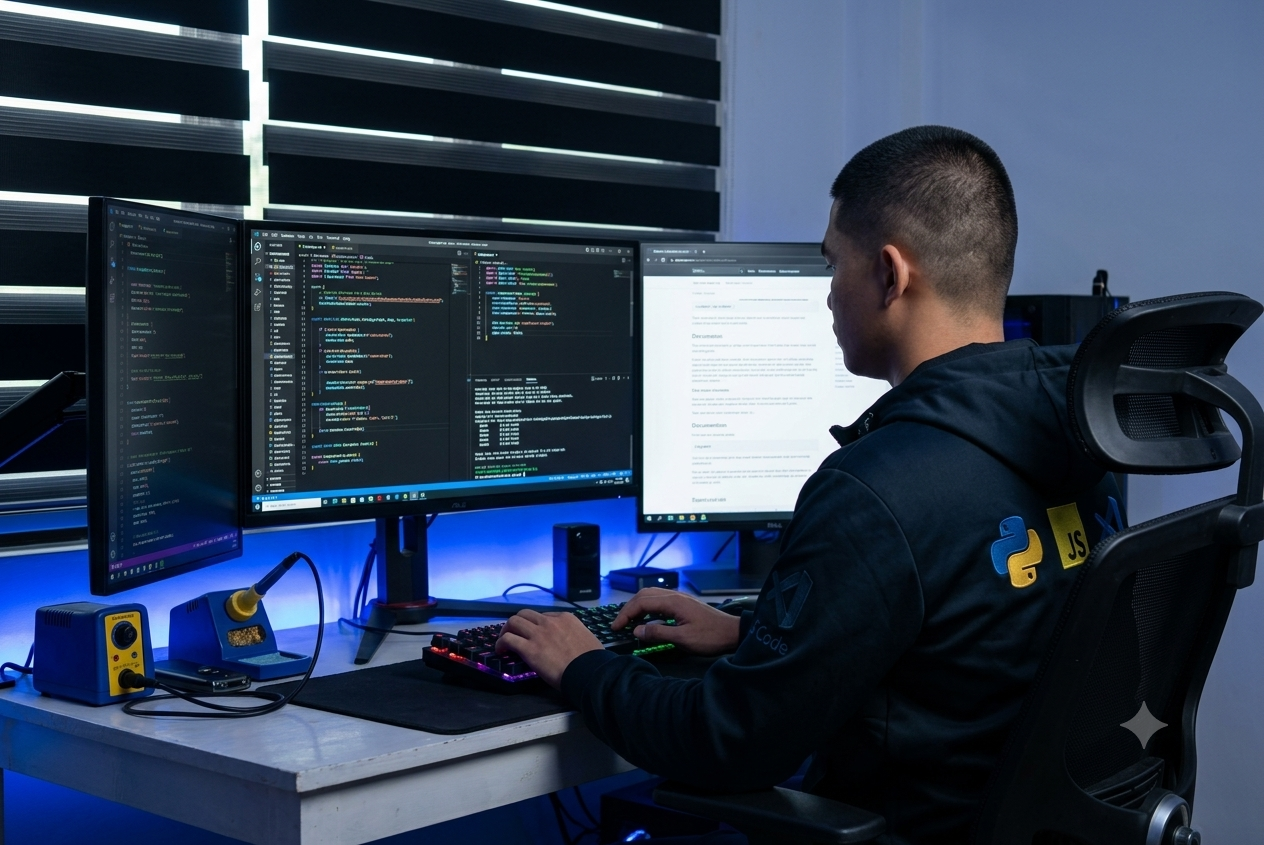
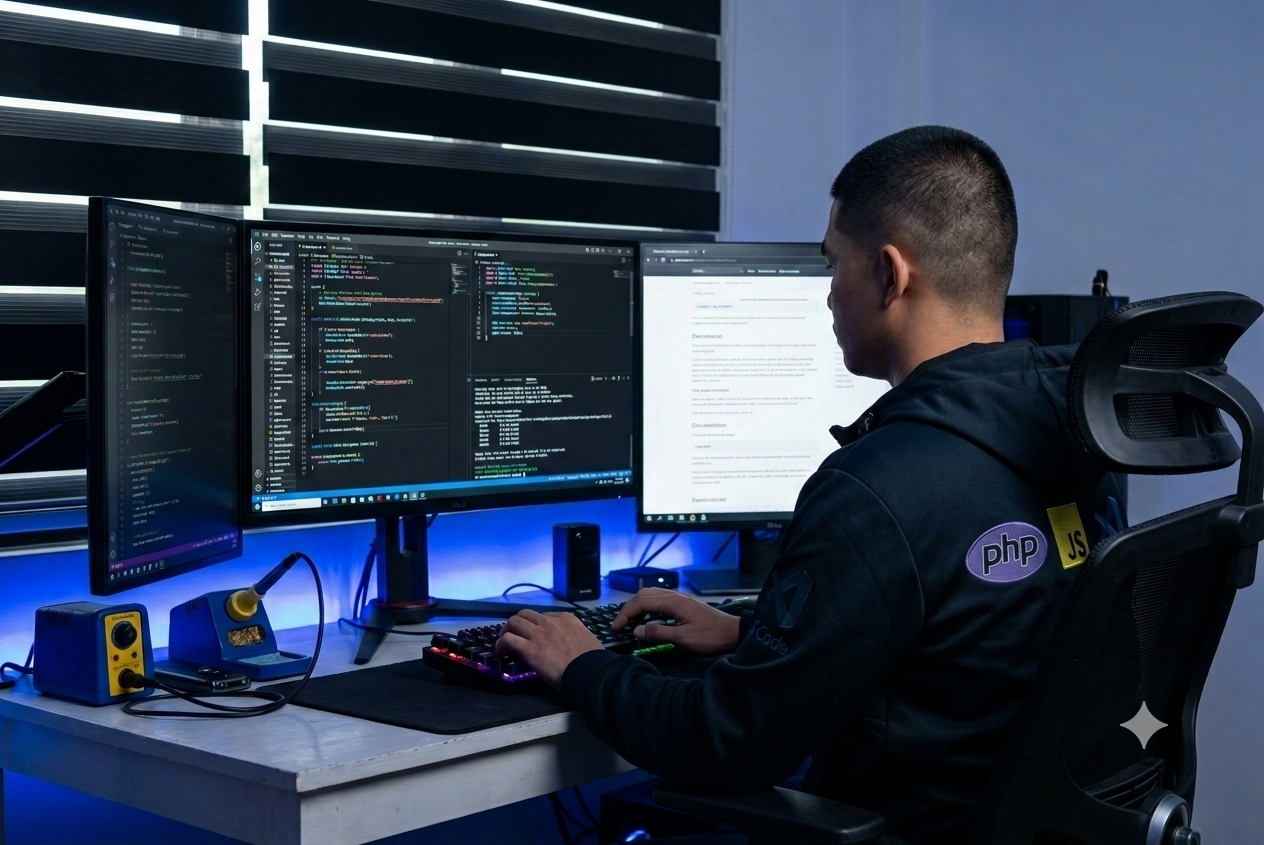
asajasd

diff --git a/js/main.js b/js/main.js
@@ -12,6 +12,7 @@ const plxItems = [...document.querySelectorAll("[data-plx]")];
 const pinnedArts = [...document.querySelectorAll("[data-art]")]
   .map((el) => ({ el, section: document.getElementById(el.dataset.art) }))
   .filter((a) => a.section);
+const contactSection = document.getElementById("contact");
 let plxScroll = window.scrollY || 0;
 let plxMX = 0, plxMY = 0, plxTX = 0, plxTY = 0;
 
@@ -35,14 +36,75 @@ window.addEventListener("pointermove", (e) => {
   });
   // crossfade each pinned backdrop by how much of the viewport its section covers
   const vh = window.innerHeight || 1;
+  const overlapOf = (sec) => {
+    const r = sec.getBoundingClientRect();
+    return Math.max(0, Math.min(r.bottom, vh) - Math.max(r.top, 0)) / vh;
+  };
+  const contactOv = contactSection ? Math.min(1, overlapOf(contactSection) * 1.35) : 0;
   pinnedArts.forEach(({ el, section }) => {
-    const r = section.getBoundingClientRect();
-    const overlap = Math.max(0, Math.min(r.bottom, vh) - Math.max(r.top, 0)) / vh;
-    const o = Math.min(1, overlap * 1.35);
+    let o = Math.min(1, overlapOf(section) * 1.35);
+    // the HOME photo lingers faintly behind the middle sections (About…Blog)
+    // so the background stays "medj kita", then clears out for Contact's own
+    if (el.dataset.art === "home") o = Math.max(o, 0.2 * (1 - contactOv));
     el.style.opacity = o.toFixed(3);
     el.style.visibility = o <= 0.01 ? "hidden" : "visible";
   });
   requestAnimationFrame(plxLoop);
+})();
+
+/* homepage background — professional crossfade slideshow.
+   Add more images by dropping <img class="hero__slide"> into the
+   .hero__art--slideshow figure; this cycles through whatever is there. */
+(function heroSlideshows() {
+  // Each .hero__art--slideshow figure (home + contact) runs its own cycle.
+  document.querySelectorAll(".hero__art--slideshow").forEach((figure) => {
+    const slides = [...figure.querySelectorAll(".hero__slide")];
+    if (slides.length < 2) return;
+    const HOLD = 6000; // ms each image stays before sliding to the next
+    let i = 0, timer = null, raf = 0;
+
+    function advance() {
+      const cur = slides[i];
+      i = (i + 1) % slides.length;
+      const nxt = slides[i];
+      // instantly park the incoming slide off-screen right (no visible sweep)
+      nxt.classList.add("no-anim");
+      nxt.classList.remove("is-active", "is-out");
+      void nxt.offsetWidth;            // flush the reset before re-enabling motion
+      nxt.classList.remove("no-anim");
+      // then move: current exits left, next enters from the right
+      cancelAnimationFrame(raf);
+      raf = requestAnimationFrame(() => {
+        cur.classList.remove("is-active");
+        cur.classList.add("is-out");
+        nxt.classList.add("is-active");
+      });
+    }
+
+    function start() { stop(); timer = setInterval(advance, HOLD); }
+    function stop() { clearInterval(timer); timer = null; cancelAnimationFrame(raf); }
+
+    // Snap to a clean single-active state — repairs any half-finished
+    // transition left behind when the tab was backgrounded (rAF is frozen
+    // while hidden, which used to strand every slide off-screen → black).
+    function repair() {
+      slides.forEach((s, n) => {
+        s.classList.add("no-anim");
+        s.classList.toggle("is-active", n === i);
+        s.classList.remove("is-out");
+      });
+      void slides[0].offsetWidth;
+      slides.forEach((s) => s.classList.remove("no-anim"));
+    }
+
+    slides[0].classList.add("is-active");
+    start();
+
+    document.addEventListener("visibilitychange", () => {
+      if (document.hidden) { stop(); }
+      else { repair(); start(); }
+    });
+  });
 })();
 
 /* =========================================================
@@ -51,13 +113,21 @@ window.addEventListener("pointermove", (e) => {
 const loader = document.getElementById("loader");
 const loaderNum = document.getElementById("loaderNum");
 const loaderBar = document.getElementById("loaderBar");
-let progress = 0;
-const tick = setInterval(() => {
-  progress += Math.random() * 18;
-  if (progress >= 100) { progress = 100; clearInterval(tick); finish(); }
-  loaderNum.textContent = Math.floor(progress);
-  loaderBar.style.width = progress + "%";
-}, 130);
+// Smooth count-up: the target jumps in chunks, but the shown value eases
+// toward it every frame — so the number and bar glide instead of snapping.
+let shown = 0, target = 0;
+const bump = setInterval(() => {
+  target = Math.min(100, target + 14 + Math.random() * 20);
+  if (target >= 100) clearInterval(bump);
+}, 200);
+(function countUp() {
+  shown += (target - shown) * 0.09;
+  if (target >= 100 && shown > 99.4) shown = 100;
+  loaderNum.textContent = Math.round(shown);
+  loaderBar.style.width = shown.toFixed(1) + "%";
+  if (shown >= 100) { finish(); return; }
+  requestAnimationFrame(countUp);
+})();
 function finish() {
   setTimeout(() => {
     loader.classList.add("is-done");
@@ -66,6 +136,7 @@ function finish() {
     if (target?.classList.contains("page") && fromHash !== "home") {
       target.scrollIntoView({ behavior: "instant", block: "start" });
     }
+    cleanUrl(); // drop any # from the URL (e.g. an old bookmarked #about)
     initPageObservers();
   }, 350);
 }
@@ -74,6 +145,7 @@ function finish() {
    5. Continuous scroll — reveal-on-scroll + current-section tracking
    ========================================================= */
 const pages = [...document.querySelectorAll("section.page")];
+const navLinks = [...document.querySelectorAll(".nav__links a")];
 
 function initPageObservers() {
   // reveal each section's content the first time it scrolls into view
@@ -90,26 +162,34 @@ function initPageObservers() {
     entries.forEach((en) => {
       if (!en.isIntersecting) return;
       pages.forEach((p) => p.classList.toggle("is-active", p === en.target));
-      if (location.hash !== "#" + en.target.id) {
-        history.replaceState(null, "", "#" + en.target.id);
-      }
+      // underline the header link for the section currently in view
+      navLinks.forEach((a) =>
+        a.classList.toggle("is-current", a.getAttribute("href") === "#" + en.target.id)
+      );
+      // (URL is kept clean — no #hash is written while scrolling)
     });
   }, { rootMargin: "-45% 0px -45% 0px" });
   pages.forEach((p) => activeObs.observe(p));
+}
+
+// strip any #hash from the address bar without reloading or jumping
+function cleanUrl() {
+  if (location.hash) history.replaceState(null, "", location.pathname + location.search);
 }
 
 function scrollToPage(id) {
   const target = document.getElementById(id);
   if (!target || !target.classList.contains("page")) return false;
   target.scrollIntoView({ behavior: "smooth", block: "start" });
-  if (location.hash !== "#" + id) history.replaceState(null, "", "#" + id);
+  cleanUrl(); // keep the URL clean — no #home, #about, …
   return true;
 }
 
-// external hash changes (e.g. the Yax AI widget setting location.hash)
+// external hash changes (e.g. the Yax AI widget setting location.hash) still
+// navigate, but we immediately wipe the # back out of the address bar
 window.addEventListener("hashchange", () => {
   const id = location.hash.slice(1);
-  if (id) scrollToPage(id);
+  if (id) scrollToPage(id); else cleanUrl();
 });
 
 /* =========================================================

diff --git a/css/style.css b/css/style.css
@@ -70,20 +70,6 @@ em { font-style: italic; }
   animation-delay: -11s;
 }
 @keyframes blobBreathe { from { scale: 1; } to { scale: 1.22; } }
-/* thin editorial ring that slowly spins while parallaxing */
-.bgfx__ring {
-  position: absolute; top: 8%; right: 6%;
-  width: 58vmin; height: 58vmin; border-radius: 50%;
-  border: 1px solid var(--line);
-  will-change: transform;
-  animation: ringSpin 60s linear infinite;
-}
-.bgfx__ring::after {
-  content: ""; position: absolute; top: -5px; left: 50%;
-  width: 9px; height: 9px; border-radius: 50%; background: var(--accent);
-  opacity: .55;
-}
-@keyframes ringSpin { to { rotate: 360deg; } }
 /* film grain over everything, very faint */
 .bgfx__grain {
   position: absolute; inset: -50%;
@@ -104,7 +90,7 @@ html[data-theme="dark"] .bgfx__blob--2 { background: radial-gradient(circle at 6
 html[data-theme="dark"] .bgfx__blob--3 { background: radial-gradient(circle at 50% 50%, #a06b8a2e, transparent 70%); }
 html[data-theme="dark"] .bgfx__grain { mix-blend-mode: screen; opacity: .06; }
 @media (prefers-reduced-motion: reduce) {
-  .bgfx__blob, .bgfx__ring, .bgfx__grain { animation: none; }
+  .bgfx__blob, .bgfx__grain { animation: none; }
 }
 
 html { scroll-behavior: smooth; }
@@ -147,7 +133,7 @@ section.page {
   width: clamp(180px, 38vw, 420px); height: 2px; background: var(--line);
   border-radius: 2px; overflow: hidden;
 }
-.loader__bar span { display: block; height: 100%; width: 0; background: var(--ink); transition: width .25s var(--ease); }
+.loader__bar span { display: block; height: 100%; width: 0; background: var(--ink); transition: width .12s linear; }
 
 /* ---------- Nav — floating glass bar ---------- */
 .nav {
@@ -180,7 +166,10 @@ html[data-theme="light"] .nav__brand-logo--light { display: block; }
   content: ""; position: absolute; left: 0; bottom: -4px; width: 0; height: 1px;
   background: currentColor; transition: width .4s var(--ease);
 }
-.nav__links a:hover::after { width: 100%; }
+.nav__links a:hover::after,
+.nav__links a.is-current::after { width: 100%; }
+/* current section's link stays lit even without hover */
+.nav__links a.is-current { color: var(--accent); }
 .nav__right { display: flex; align-items: center; gap: 1.5rem; }
 
 /* theme toggle */
@@ -443,6 +432,17 @@ section { padding: clamp(4.5rem, 5vw, 5rem) clamp(1.5rem, 4vw, 4rem); scroll-mar
   width: 100%; height: 100%; object-fit: cover; object-position: center;
   animation: heroDrift 24s ease-in-out infinite alternate;
 }
+/* slideshow — the next image slides in from the right like "next",
+   the current one pushes out to the left. Clean directional move, no fade. */
+.hero__art--slideshow .hero__slide {
+  position: absolute; inset: 0; animation: none;
+  transform: translateX(100%);          /* parked off to the right by default */
+  transition: transform 1.1s cubic-bezier(.62, 0, .2, 1);
+  will-change: transform;
+}
+.hero__art--slideshow .hero__slide.is-active { transform: translateX(0); }
+.hero__art--slideshow .hero__slide.is-out { transform: translateX(-100%); }
+.hero__art--slideshow .hero__slide.no-anim { transition: none; }
 /* readability overlays — cream wash from the left + soft top/bottom fades */
 .hero__art::after {
   content: ""; position: absolute; inset: 0;
@@ -565,6 +565,21 @@ section { padding: clamp(4.5rem, 5vw, 5rem) clamp(1.5rem, 4vw, 4rem); scroll-mar
 .proj-card__num { font-size: .72rem; letter-spacing: .12em; opacity: .65; }
 .proj-card__info h3 { font-family: var(--serif); font-weight: 400; font-size: clamp(1.3rem, 2vw, 1.7rem); line-height: 1.1; }
 .proj-card__meta { display: flex; justify-content: space-between; font-size: .74rem; text-transform: uppercase; letter-spacing: .08em; opacity: .8; }
+
+/* "Best in Capstone" award badge — gold pill, top-left of a featured card */
+.proj-card__award {
+  position: absolute; top: .8rem; left: .8rem; z-index: 4;
+  display: inline-flex; align-items: center; gap: .35rem;
+  padding: .38rem .7rem; border-radius: 100px;
+  background: linear-gradient(135deg, #f7e3a1 0%, #e7c79a 45%, #c9a24b 100%);
+  color: #2a1e05; font-family: var(--sans); font-weight: 500;
+  font-size: .64rem; text-transform: uppercase; letter-spacing: .1em;
+  box-shadow: 0 4px 16px rgba(201, 162, 75, .45);
+  pointer-events: none;
+}
+.proj-card__award svg { width: 12px; height: 12px; }
+/* keep the badge visible even on hover (the info block fades, this stays) */
+.proj-card:hover .proj-card__award { opacity: 1; }
 
 .proj-card:hover { transform: scale(1.045); border-radius: 4px; box-shadow: 0 22px 55px rgba(0,0,0,.45); }
 .proj-card:hover .proj-card__media img { transform: scale(1.08); filter: saturate(1.05); }

diff --git a/index.html b/index.html
@@ -19,7 +19,6 @@
     <span class="bgfx__blob bgfx__blob--1" data-speed="-0.10" data-depth="26"></span>
     <span class="bgfx__blob bgfx__blob--2" data-speed="-0.20" data-depth="42"></span>
     <span class="bgfx__blob bgfx__blob--3" data-speed="-0.06" data-depth="16"></span>
-    <span class="bgfx__ring" data-speed="-0.28" data-depth="30"></span>
     <span class="bgfx__grain"></span>
   </div>
   <div class="loader" id="loader">
@@ -79,8 +78,11 @@
           <p class="reveal">Web &amp; mobile developer based in the Philippines. I like building useful web and mobile applications, working with data, and helping with different tasks. I'm always happy to learn new things. Currently open to new opportunities.</p>
         </div>
       </div>
-      <figure class="hero__art" data-art="home" aria-hidden="true">
-        <img src="images/programmer.png" alt="" loading="eager" />
+      <figure class="hero__art hero__art--slideshow" data-art="home" aria-hidden="true">
+        <img class="hero__slide is-active" src="images/programmer.png" alt="" loading="eager" />
+        <img class="hero__slide" src="images/anyangle.png" alt="" loading="eager" />
+        <img class="hero__slide" src="images/itopa.png" alt="" loading="eager" />
+        <img class="hero__slide" src="images/highangle.png" alt="" loading="eager" />
       </figure>
       <section class="marquee" aria-hidden="true">
         <div class="marquee__track">
@@ -287,10 +289,14 @@
         <a class="proj-card reveal" href="https://lmbs-staging.creativedevlabs.com/" target="_blank" rel="noopener" data-cursor data-updated="2026-06-30">
           <div class="proj-card__media"><img src="images/lmbs.png" alt="LMBS" loading="lazy" /></div>
           <span class="proj-card__border"></span>
+          <span class="proj-card__award">
+            <svg viewBox="0 0 24 24" fill="currentColor" aria-hidden="true"><path d="M12 2a5 5 0 0 0-5 5c0 1.9 1.06 3.55 2.62 4.4L8 22l4-2 4 2-1.62-10.6A5 5 0 0 0 17 7a5 5 0 0 0-5-5z"/></svg>
+            Best in Capstone
+          </span>
           <div class="proj-card__info">
             <span class="proj-card__num">01</span>
             <h3>LMBS</h3>
-            <div class="proj-card__meta"><span>Web App</span><span>2025</span></div>
+            <div class="proj-card__meta"><span>Capstone · Web App</span><span>2025</span></div>
           </div>
         </a>
         <a class="proj-card reveal" href="https://lts-pb.creativedevlabs.com/admin/login" target="_blank" rel="noopener" data-cursor data-updated="2026-06-20">
@@ -624,8 +630,11 @@
       </template>
     </section>
     <section class="contact page" id="contact">
-      <figure class="hero__art hero__art--contact" data-art="contact" aria-hidden="true">
-        <img src="images/programmer.png" alt="" loading="lazy" />
+      <figure class="hero__art hero__art--contact hero__art--slideshow" data-art="contact" aria-hidden="true">
+        <img class="hero__slide is-active" src="images/programmer.png" alt="" loading="lazy" />
+        <img class="hero__slide" src="images/anyangle.png" alt="" loading="lazy" />
+        <img class="hero__slide" src="images/itopa.png" alt="" loading="lazy" />
+        <img class="hero__slide" src="images/highangle.png" alt="" loading="lazy" />
       </figure>
       <h2 class="contact__title">
         <span class="line"><span class="reveal-y">Let's build</span></span>
